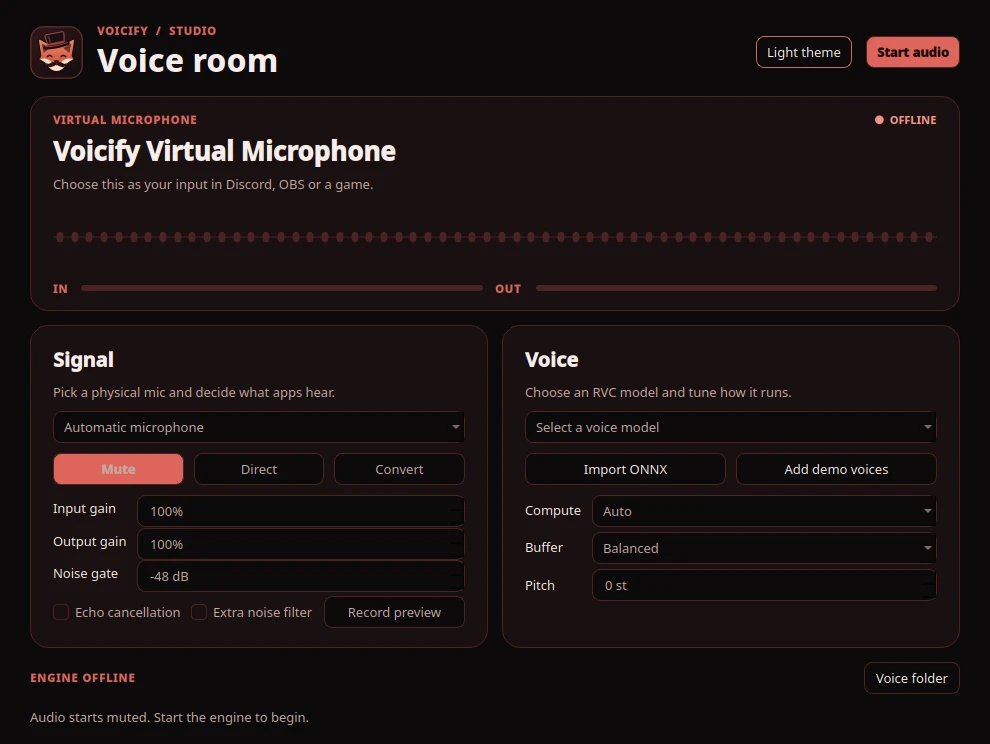
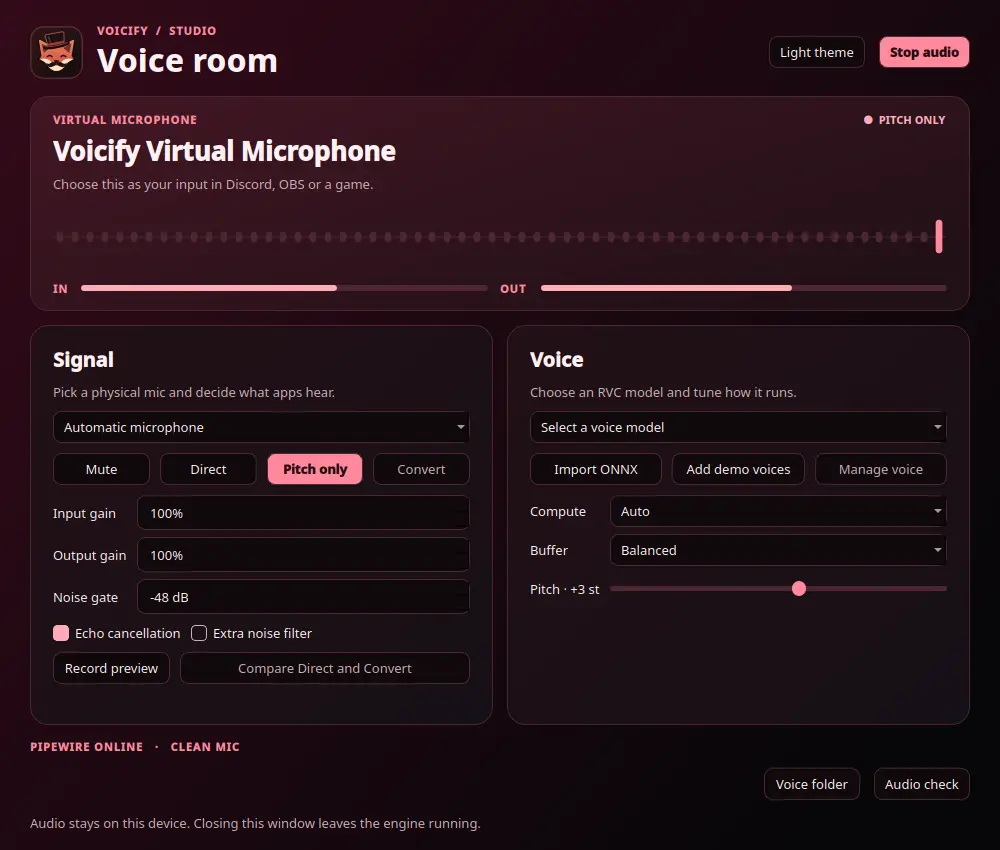
Show both Studio themes and provision Python for CI

diff --git a/README.md b/README.md
@@ -10,7 +10,8 @@
   · <a href="docs/engineering.md">How it works</a>
 </p>
 
-<p align="center"><img src="assets/studio.webp" width="840" alt="Voicify Studio in black and red, with controls for the virtual mic, noise cleanup, and voice conversion"></p>
+<p align="center"><img src="assets/studio.webp" width="840" alt="Voicify Studio in dark mode with Pitch only selected"></p>
+<p align="center"><a href="assets/studio-light.webp">See Studio in light mode</a></p>
 
 ## Get on the mic
 
